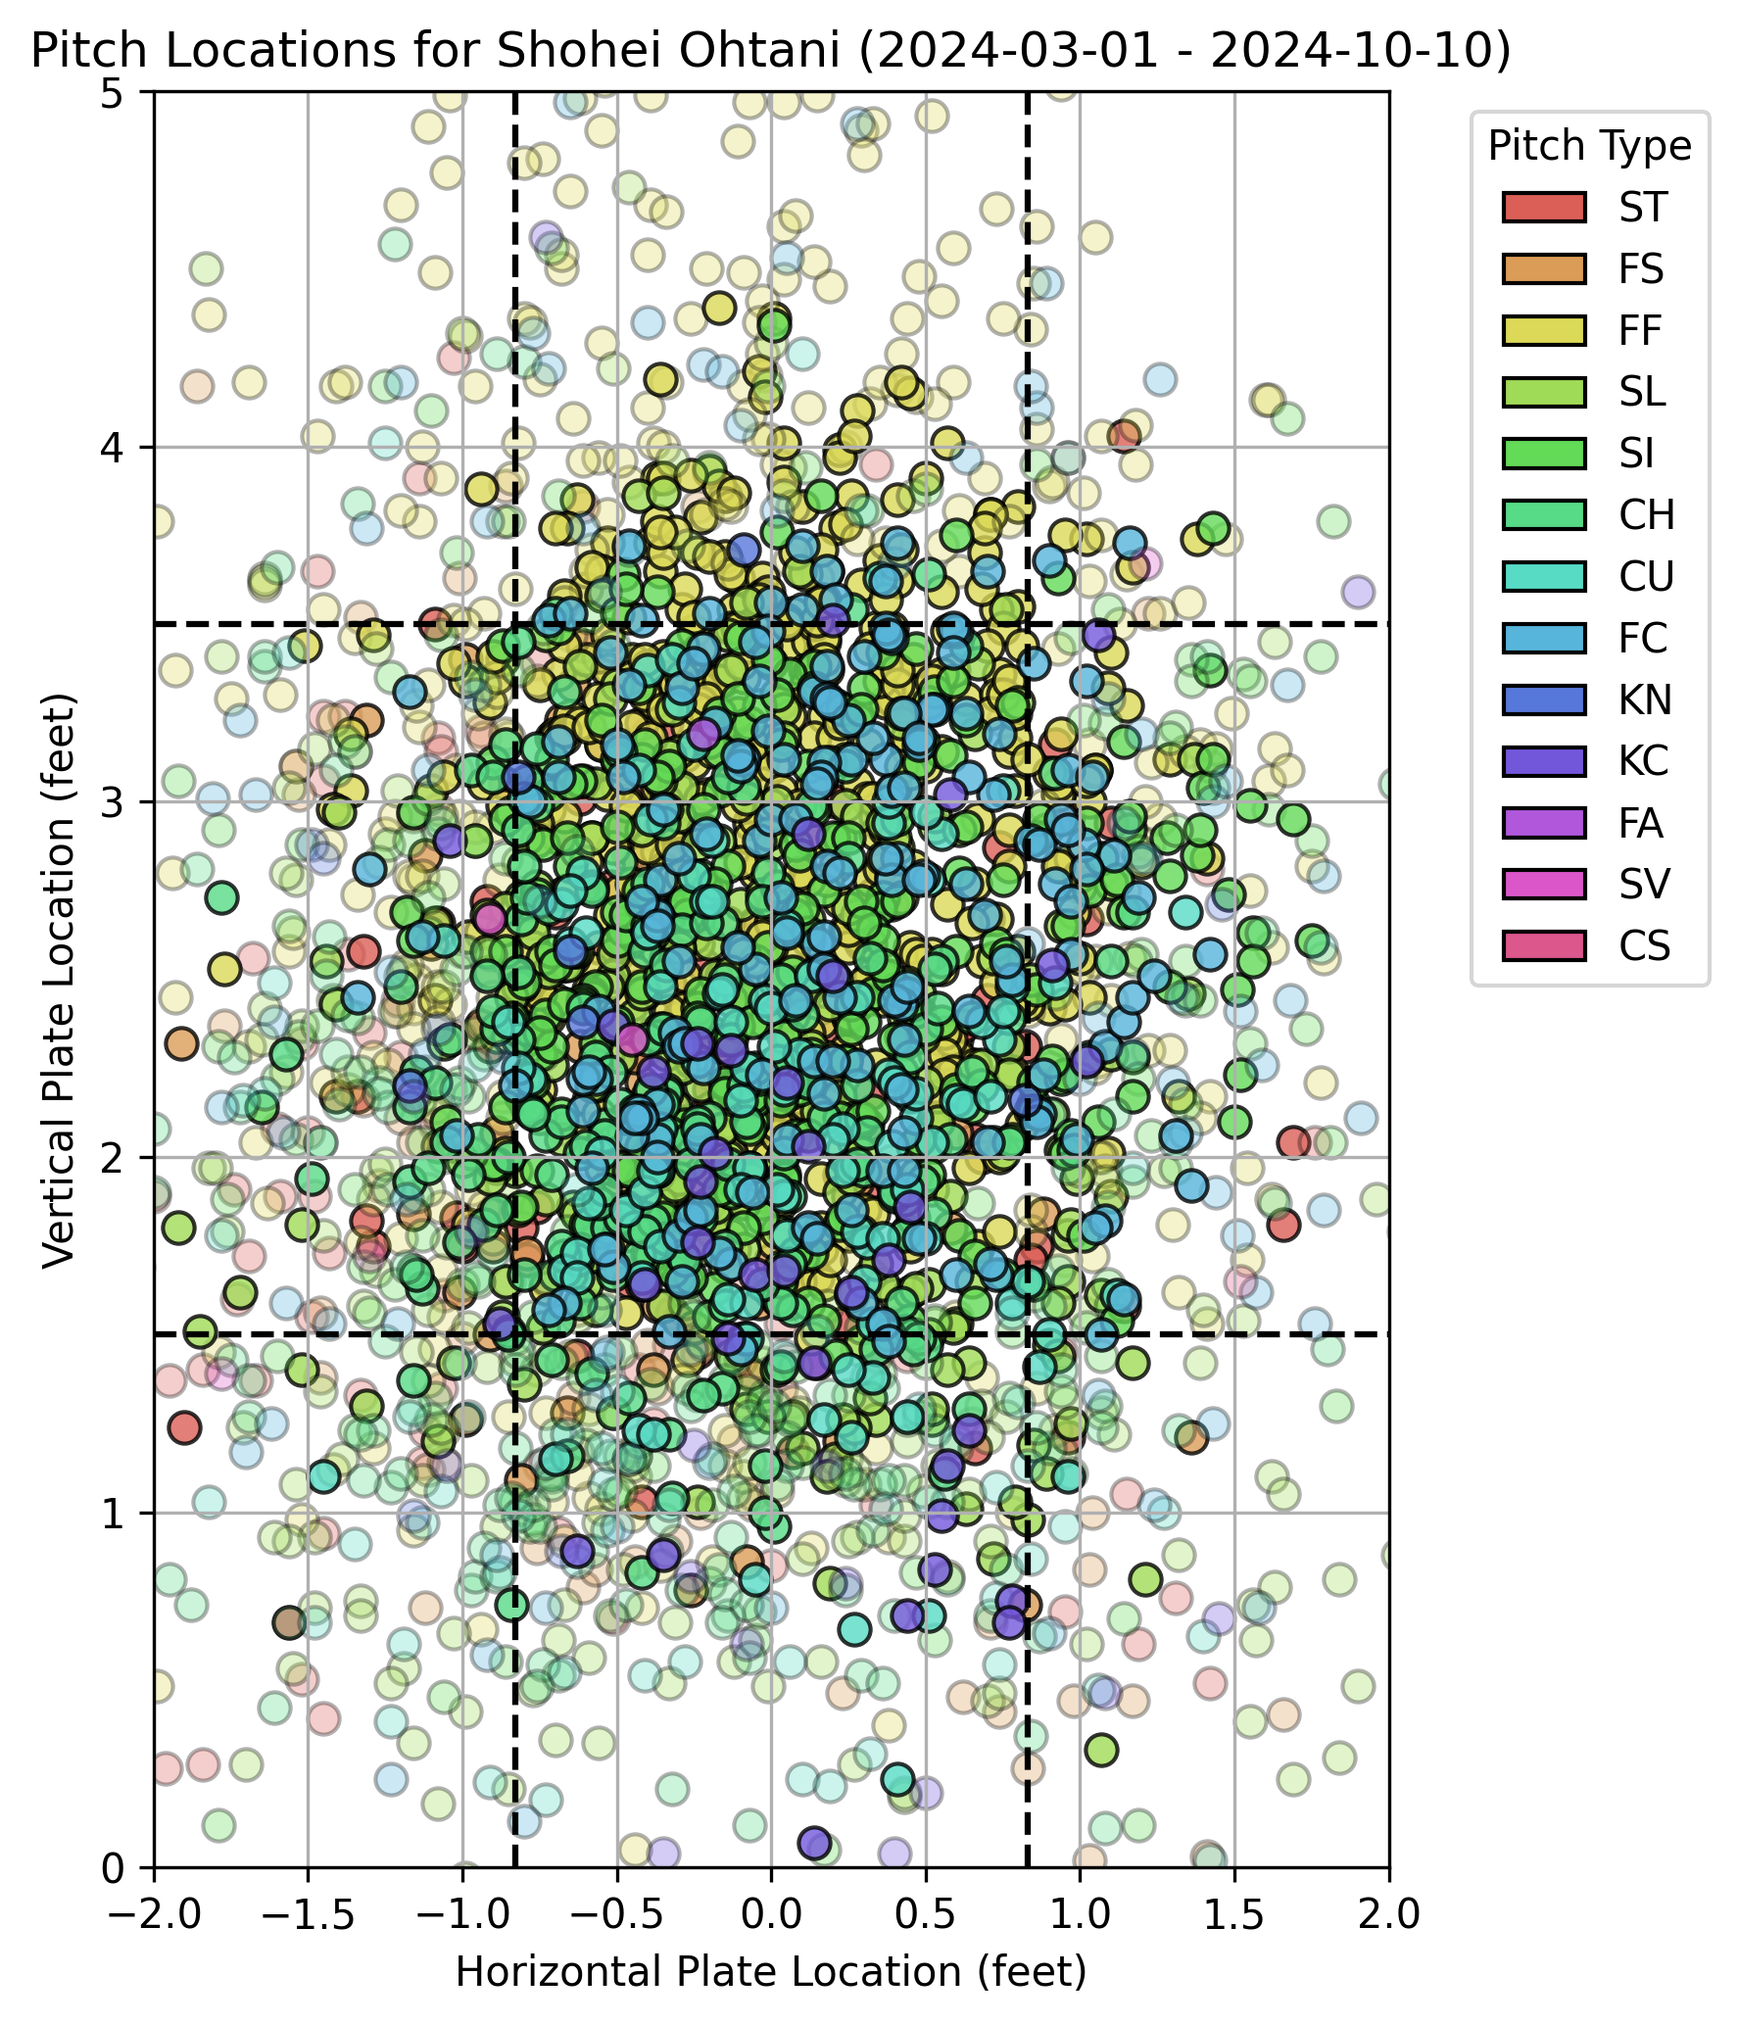
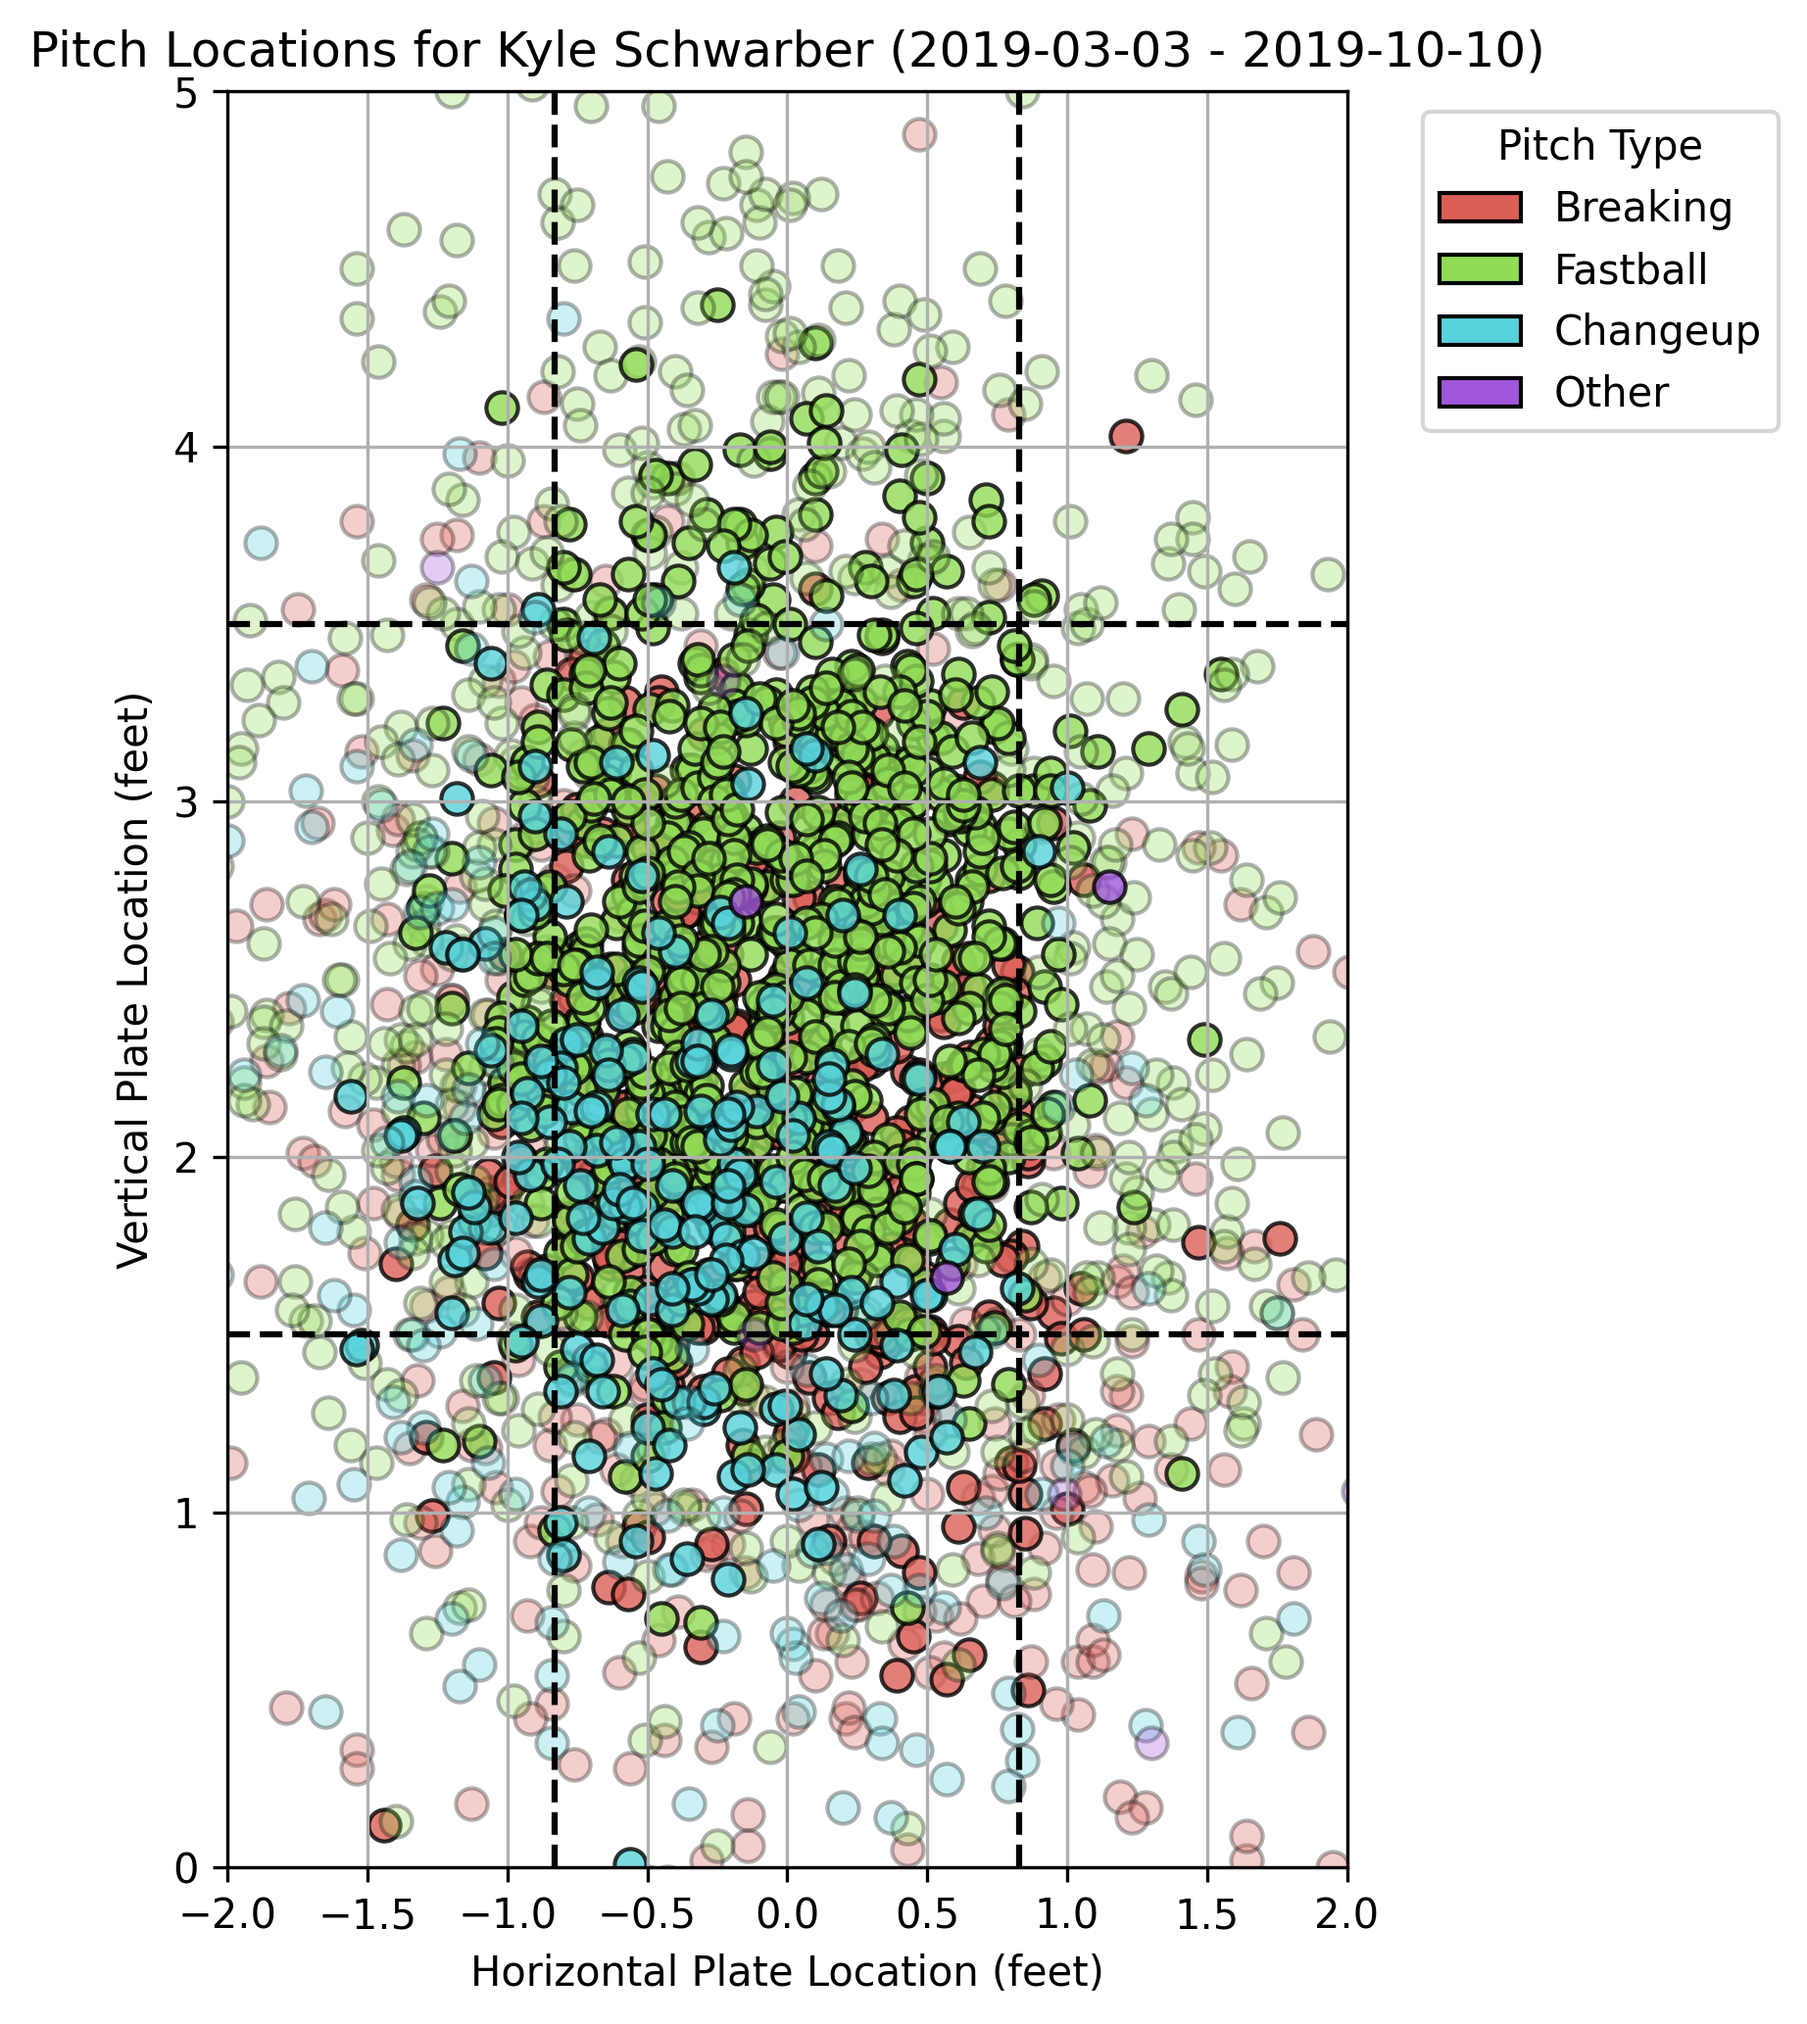
categorized pitch groups

diff --git a/main.py b/main.py
@@ -48,37 +48,46 @@ print(df_ballstrike)
 
 # ---- DISPLAY STRIKE ZONE TARGET ----
 
+# VARIABLES: balls vs. strikes, pitch groups
+strike_descriptions = {
+    "called_strike", "swinging_strike", "swinging_strike_blocked",
+    "foul", "foul_tip", "foul_bunt", "missed_bunt", "hit_into_play"
+}
+ball_descriptions = {"ball", "blocked_ball", "intent_ball", "pitchout"}
+pitch_groups = {
+    'FF': 'Fastball', 'FT': 'Fastball', 'SI': 'Fastball', 'FC': 'Fastball',
+    'SL': 'Breaking', 'CU': 'Breaking', 'KC': 'Breaking', 'KN': 'Breaking', 'SV': 'Breaking',
+    'CH': 'Changeup', 'FS': 'Changeup',
+    'EP': 'Other', 'PO': 'Other', 'FO': 'Other'
+}
+
 # Filter out rows without location data
 df_zone = df[df['plate_x'].notnull() & df['plate_z'].notnull()]
+df_zone['pitch_group'] = df_zone['pitch_type'].map(pitch_groups).fillna('Other')
 
 # Plot pitch locations
 plt.figure(figsize=(5, 6))
 # OLD: plt.scatter(df_zone['plate_x'], df_zone['plate_z'], alpha=0.5, c='red', edgecolor='black')
 
 # Use seaborn to get distinct colors
-unique_pitches = df_zone['pitch_type'].dropna().unique()
-palette = sns.color_palette("hls", len(unique_pitches))
-color_map = dict(zip(unique_pitches, palette))
+unique_pitch_groups = df_zone['pitch_group'].unique()
+palette = sns.color_palette("hls", len(unique_pitch_groups))
+color_map = dict(zip(unique_pitch_groups, palette))
+
 
 # Create the plot
 plt.figure(figsize=(6, 7))
 
-# VARIABLES: Define which descriptions are "balls" vs "strikes"
-strike_descriptions = {
-    "called_strike", "swinging_strike", "swinging_strike_blocked",
-    "foul", "foul_tip", "foul_bunt", "missed_bunt", "hit_into_play"
-}
-ball_descriptions = {"ball", "blocked_ball", "intent_ball", "pitchout"}
 
 # Plot each pitch type separately and make balls and strikes different transparency
-for pitch in unique_pitches:
-    pitch_data = df_zone[df_zone['pitch_type'] == pitch]
+for pitch_group in unique_pitch_groups:
+    pitch_data = df_zone[df_zone['pitch_group'] == pitch_group]
 
     for _, row in pitch_data.iterrows():
         outcome = row.get("description", "")
         alpha_val = 0.8 if outcome in strike_descriptions else 0.3
         plt.scatter(row['plate_x'], row['plate_z'],
-                    c=[color_map[pitch]], alpha=alpha_val,
+                    c=[color_map[pitch_group]], alpha=alpha_val,
                     edgecolor='black', s=60)
 
 # Draw the strike zone
@@ -96,8 +105,8 @@ plt.ylim(0, 5)
 plt.grid(True)
 # Create custom legend handles (one for each pitch type)
 legend_handles = [
-    Patch(facecolor=color_map[pitch], edgecolor='black', label=pitch)
-    for pitch in unique_pitches
+    Patch(facecolor=color_map[pitch_group], edgecolor='black', label=pitch_group)
+    for pitch_group in unique_pitch_groups
 ]
 plt.legend(handles=legend_handles, title="Pitch Type", bbox_to_anchor=(1.05, 1), loc='upper left')
 plt.tight_layout()
